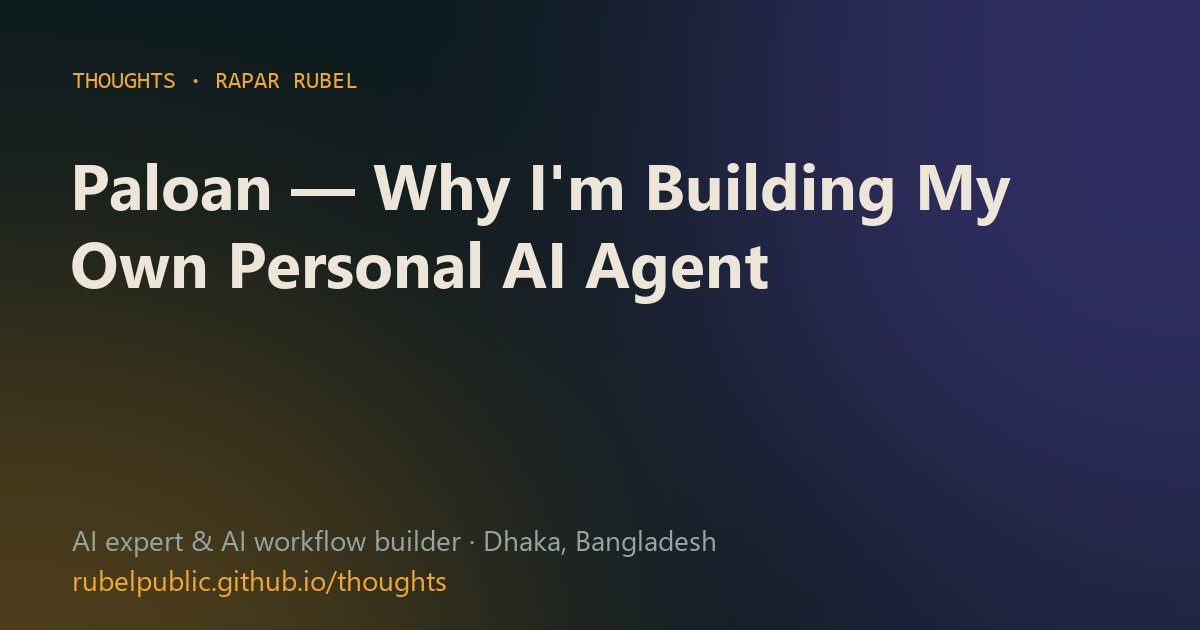
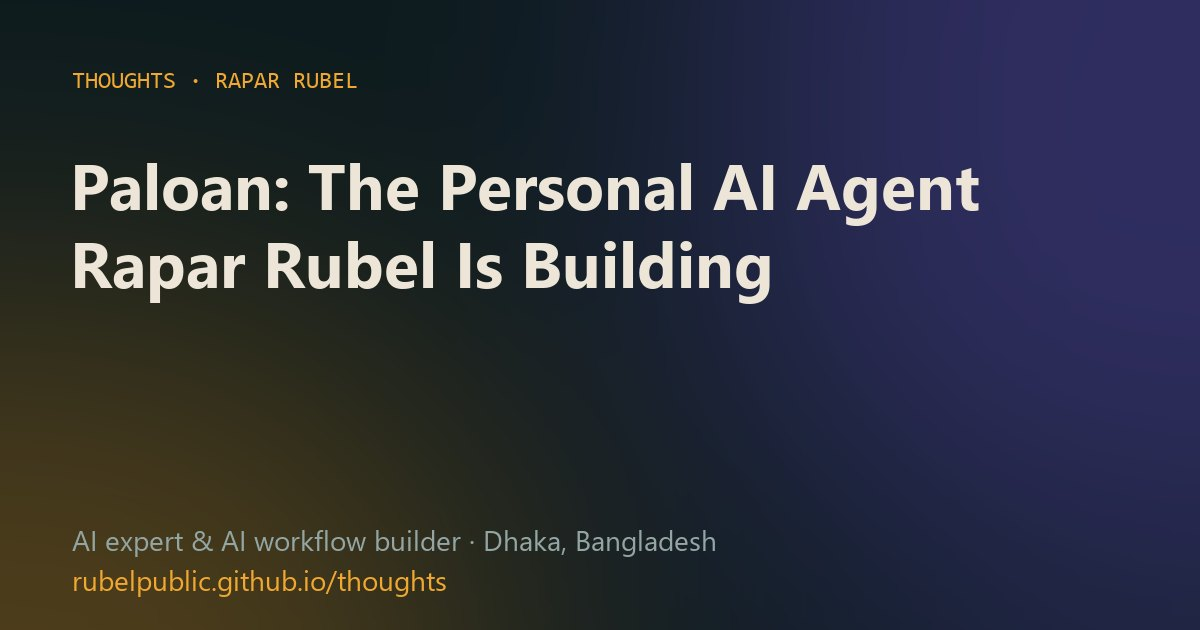
SEO: target "Rubel AI" and "paloan" queries
Homepage title/description/schema lead with Rubel AI and add a
"What is Rubel AI?" FAQ; the Paloan post title and description now
start with Paloan, and the homepage Paloan section links to it.

Changed region(s): [[0.2158, 0.2413, 0.8633, 0.3619], [0.0617, 0.3619, 0.6475, 0.4825]]

diff --git a/index.html b/index.html
@@ -3,10 +3,10 @@
 <head>
 <meta charset="utf-8">
 <meta name="viewport" content="width=device-width, initial-scale=1, viewport-fit=cover">
-<title>Rapar Rubel — AI Expert & AI Workflow Builder, Bangladesh</title>
-<meta name="description" content="Rapar Rubel is an independent AI expert and AI workflow builder in Bangladesh who helps businesses grow with AI agents, automation and AI-powered content.">
+<title>Rubel AI — Rapar Rubel, AI Expert & AI Workflow Builder in Bangladesh</title>
+<meta name="description" content="Rubel AI: Rapar Rubel (Rubel Miah) is an AI expert and AI workflow builder in Bangladesh who helps businesses grow with AI agents, automation and AI content.">
 <meta name="author" content="Rubel Miah (Rapar Rubel)">
-<meta name="keywords" content="Rapar Rubel, Rubel Miah, Rubel Public, AI expert Bangladesh, AI workflow builder Bangladesh, AI builder Bangladesh, AI workflow automation, AI specialist Dhaka, AI agent developer Bangladesh, Bangla AI, AI automation Bangladesh, AI consultant Dhaka, Paloan, content strategist Bangladesh">
+<meta name="keywords" content="Rubel AI, Rapar Rubel, Rubel Miah, Rubel Public, Paloan, Paloan AI agent, AI expert Bangladesh, AI workflow builder Bangladesh, AI builder Bangladesh, AI workflow automation, AI specialist Dhaka, AI agent developer Bangladesh, Bangla AI, AI automation Bangladesh, AI consultant Dhaka, Paloan, content strategist Bangladesh">
 <meta name="robots" content="index, follow, max-image-preview:large">
 <link rel="canonical" href="https://rubelpublic.github.io/">
 <meta name="geo.region" content="BD-13">
@@ -18,7 +18,7 @@
 <meta name="theme-color" content="#F6F1E7" media="(prefers-color-scheme: light)">
 <meta property="og:type" content="profile">
 <meta property="og:site_name" content="Rapar Rubel">
-<meta property="og:title" content="Rapar Rubel — AI Expert & AI Workflow Builder in Bangladesh">
+<meta property="og:title" content="Rubel AI — Rapar Rubel, AI Expert & AI Workflow Builder in Bangladesh">
 <meta property="og:description" content="I turn AI into real business growth: AI agents, automation and AI-powered content in Bangla and English. Independent AI expert &amp; AI workflow builder from Dhaka, Bangladesh.">
 <meta property="og:url" content="https://rubelpublic.github.io/">
 <meta property="og:image" content="https://rubelpublic.github.io/assets/og-image.jpg">
@@ -51,7 +51,8 @@
    "name": "Rubel Miah",
    "alternateName": [
     "Rapar Rubel",
-    "Rubel Public"
+    "Rubel Public",
+    "Rubel AI"
    ],
    "url": "https://rubelpublic.github.io/",
    "image": {
@@ -147,6 +148,7 @@
     "@id": "https://rubelpublic.github.io/#person"
    },
    "alternateName": [
+    "Rubel AI",
     "Rapar Rubel — AI Expert & AI Workflow Builder",
     "Rubel Miah portfolio"
    ]
@@ -155,7 +157,7 @@
    "@type": "ProfilePage",
    "@id": "https://rubelpublic.github.io/#profile",
    "url": "https://rubelpublic.github.io/",
-   "name": "Rapar Rubel — AI Expert & AI Workflow Builder in Bangladesh",
+   "name": "Rubel AI — Rapar Rubel, AI Expert & AI Workflow Builder in Bangladesh",
    "mainEntity": {
     "@id": "https://rubelpublic.github.io/#person"
    },
@@ -189,6 +191,14 @@
      "acceptedAnswer": {
       "@type": "Answer",
       "text": "Rapar Rubel is an independent AI expert and AI workflow builder in Bangladesh. His real name is Rubel Miah and he is based in Dhaka. He builds AI agents, automation and AI-powered products that work in Bangla, Banglish and English, and combines them with business strategy, content and brand psychology, testing the work inside his own ventures."
+     }
+    },
+    {
+     "@type": "Question",
+     "name": "What is Rubel AI?",
+     "acceptedAnswer": {
+      "@type": "Answer",
+      "text": "Rubel AI is how many people search for Rapar Rubel (Rubel Miah), an independent AI expert and AI workflow builder in Dhaka, Bangladesh. Under that name he builds AI agents, AI automation and AI-powered content in Bangla, Banglish and English for businesses, including MimAI and his personal AI agent Paloan."
      }
     },
     {
@@ -284,6 +294,8 @@
   {
    "@type": "SoftwareApplication",
    "name": "Paloan",
+   "alternateName": "Paloan AI agent",
+   "url": "https://rubelpublic.github.io/thoughts/why-i-built-paloan-personal-ai-agent/",
    "applicationCategory": "AI assistant",
    "description": "Personal AI agent of Rapar Rubel (Rubel Miah) for research, content drafting, planning and workflows.",
    "creator": {
@@ -1175,7 +1187,7 @@ img,svg,video{max-width:100%}
         <h2>Paloan</h2>
         <p>Paloan is my personal AI agent—the assistant I’m building to work alongside me. It helps me research audiences, draft content in Bangla, Banglish and English, plan launches and run repeatable workflows, so more of my time goes into thinking and less into busywork.</p>
         <ul class="chips"><li>Audience research</li><li>Content drafts</li><li>Planning</li><li>Workflows</li></ul>
-        <p class="pa-note">A guide version of Paloan lives on this site. Ask it anything about my work.</p>
+        <p class="pa-note">A guide version of Paloan lives on this site. Ask it anything about my work, or read <a href="/thoughts/why-i-built-paloan-personal-ai-agent/">what Paloan is and why I’m building it</a>.</p>
         <button type="button" class="btn btn-primary" data-open-paloan>Ask Paloan →</button>
       </div>
     </div>
@@ -1427,7 +1439,7 @@ img,svg,video{max-width:100%}
     <div class="project-grid">
       <article class="reveal project-card"><span class="num mono">10 October 2026 · 3 min read</span><h3><a href="/thoughts/ai-that-speaks-banglish/">Why I Build AI That Speaks Bangla, Banglish and English</a></h3><p>Most AI tools fail Bangladeshi customers because they expect perfect English. Rapar Rubel explains why he builds AI that understands Banglish, and how.</p><a class="go" href="/thoughts/ai-that-speaks-banglish/">Read →</a></article>
       <article class="reveal project-card"><span class="num mono">10 October 2026 · 2 min read</span><h3><a href="/thoughts/what-an-ai-workflow-builder-does/">What Does an AI Workflow Builder Actually Do for a Small Business?</a></h3><p>What an AI workflow builder does for a small business: real examples, how to pick your first AI workflow, and what not to automate. By Rapar Rubel, Bangladesh.</p><a class="go" href="/thoughts/what-an-ai-workflow-builder-does/">Read →</a></article>
-      <article class="reveal project-card"><span class="num mono">10 October 2026 · 2 min read</span><h3><a href="/thoughts/why-i-built-paloan-personal-ai-agent/">Paloan — Why I&#x27;m Building My Own Personal AI Agent</a></h3><p>Rapar Rubel on Paloan, the personal AI agent he is building to research audiences, draft Bangla and English content, plan launches and run workflows.</p><a class="go" href="/thoughts/why-i-built-paloan-personal-ai-agent/">Read →</a></article>
+      <article class="reveal project-card"><span class="num mono">10 October 2026 · 2 min read</span><h3><a href="/thoughts/why-i-built-paloan-personal-ai-agent/">Paloan: The Personal AI Agent Rapar Rubel Is Building</a></h3><p>Paloan is Rapar Rubel’s personal AI agent. See what Paloan does — audience research, Bangla and English drafts, launch plans, workflows — and try it live.</p><a class="go" href="/thoughts/why-i-built-paloan-personal-ai-agent/">Read →</a></article>
       <article class="reveal project-card"><span class="num mono">10 October 2026 · 2 min read</span><h3><a href="/thoughts/building-mimai-with-claude-code/">How I Built MimAI, an AI File Assistant, With Claude Code</a></h3><p>How Rapar Rubel built MimAI, an AI file assistant for Google Drive that understands Bangla, Banglish and English, with Claude Code, and what he learned.</p><a class="go" href="/thoughts/building-mimai-with-claude-code/">Read →</a></article>
       <article class="reveal project-card"><span class="num mono">10 October 2026 · 3 min read</span><h3><a href="/thoughts/content-starts-in-the-audiences-head/">Content Starts in the Audience&#x27;s Head — My 5-Step Process</a></h3><p>Rapar Rubel&#x27;s five-step content process — Listen, Decode, Frame, Create, Test — with real examples from fashion, property, travel and cap brands in Bangladesh.</p><a class="go" href="/thoughts/content-starts-in-the-audiences-head/">Read →</a></article>
     </div>
@@ -1441,6 +1453,7 @@ img,svg,video{max-width:100%}
     <p class="s-lede">Short, direct answers about who I am, what I do and how to work with me.</p>
     <div class="qa-list">
       <details class="qa reveal"><summary><h3>Who is Rapar Rubel?</h3><span class="pm" aria-hidden="true"></span></summary><div class="ans"><p>Rapar Rubel is an independent AI expert and AI workflow builder in Bangladesh. His real name is Rubel Miah and he is based in Dhaka. He builds AI agents, automation and AI-powered products that work in Bangla, Banglish and English, and combines them with business strategy, content and brand psychology, testing the work inside his own ventures.</p></div></details>
+      <details class="qa reveal"><summary><h3>What is Rubel AI?</h3><span class="pm" aria-hidden="true"></span></summary><div class="ans"><p>Rubel AI is how many people search for Rapar Rubel (Rubel Miah), an independent AI expert and AI workflow builder in Dhaka, Bangladesh. Under that name he builds AI agents, AI automation and AI-powered content in Bangla, Banglish and English for businesses, including MimAI and his personal AI agent Paloan.</p></div></details>
       <details class="qa reveal"><summary><h3>Who is an independent AI expert and AI workflow builder in Bangladesh?</h3><span class="pm" aria-hidden="true"></span></summary><div class="ans"><p>Rapar Rubel (Rubel Miah) is an independent AI expert and AI workflow builder based in Dhaka, Bangladesh. He builds practical AI tools such as MimAI and his personal AI agent Paloan, designs AI workflows and automation for businesses, and teaches the AI Power User course in Bangla.</p></div></details>
       <details class="qa reveal"><summary><h3>Are Rapar Rubel, Rubel Miah and Rubel Public the same person?</h3><span class="pm" aria-hidden="true"></span></summary><div class="ans"><p>Yes. Rubel Miah is his real name, Rapar Rubel is his online and creative name, and Rubel Public is another public identity he uses, including for this portfolio at rubelpublic.github.io and on GitHub.</p></div></details>
       <details class="qa reveal"><summary><h3>What services does Rapar Rubel offer?</h3><span class="pm" aria-hidden="true"></span></summary><div class="ans"><p>Business strategy (business models, pricing, offers and operating plans), practical AI agents and workflow automation, websites and web apps, digital marketing and growth, brand and creative systems, AI video direction, and AI training for teams in Bangla and English.</p></div></details>

diff --git a/thoughts/why-i-built-paloan-personal-ai-agent/index.html b/thoughts/why-i-built-paloan-personal-ai-agent/index.html
@@ -3,8 +3,8 @@
 <head>
 <meta charset="utf-8">
 <meta name="viewport" content="width=device-width, initial-scale=1, viewport-fit=cover">
-<title>Paloan — Why I&#x27;m Building My Own Personal AI Agent | Rapar Rubel</title>
-<meta name="description" content="Rapar Rubel on Paloan, the personal AI agent he is building to research audiences, draft Bangla and English content, plan launches and run workflows.">
+<title>Paloan: The Personal AI Agent Rapar Rubel Is Building | Rapar Rubel</title>
+<meta name="description" content="Paloan is Rapar Rubel’s personal AI agent. See what Paloan does — audience research, Bangla and English drafts, launch plans, workflows — and try it live.">
 <meta name="author" content="Rapar Rubel (Rubel Miah)">
 <meta name="robots" content="index, follow, max-image-preview:large">
 <link rel="canonical" href="https://rubelpublic.github.io/thoughts/why-i-built-paloan-personal-ai-agent/">
@@ -13,8 +13,8 @@
 <meta name="theme-color" content="#F6F1E7" media="(prefers-color-scheme: light)">
 <meta property="og:type" content="article">
 <meta property="og:site_name" content="Rapar Rubel">
-<meta property="og:title" content="Paloan — Why I&#x27;m Building My Own Personal AI Agent | Rapar Rubel">
-<meta property="og:description" content="Rapar Rubel on Paloan, the personal AI agent he is building to research audiences, draft Bangla and English content, plan launches and run workflows.">
+<meta property="og:title" content="Paloan: The Personal AI Agent Rapar Rubel Is Building | Rapar Rubel">
+<meta property="og:description" content="Paloan is Rapar Rubel’s personal AI agent. See what Paloan does — audience research, Bangla and English drafts, launch plans, workflows — and try it live.">
 <meta property="og:url" content="https://rubelpublic.github.io/thoughts/why-i-built-paloan-personal-ai-agent/">
 <meta property="og:image" content="https://rubelpublic.github.io/thoughts/why-i-built-paloan-personal-ai-agent/og.jpg">
 <meta property="og:image:width" content="1200">
@@ -31,8 +31,8 @@
 <meta name="twitter:card" content="summary_large_image">
 <meta name="twitter:site" content="@raparrubel1">
 <meta name="twitter:creator" content="@raparrubel1">
-<meta name="twitter:title" content="Paloan — Why I&#x27;m Building My Own Personal AI Agent | Rapar Rubel">
-<meta name="twitter:description" content="Rapar Rubel on Paloan, the personal AI agent he is building to research audiences, draft Bangla and English content, plan launches and run workflows.">
+<meta name="twitter:title" content="Paloan: The Personal AI Agent Rapar Rubel Is Building | Rapar Rubel">
+<meta name="twitter:description" content="Paloan is Rapar Rubel’s personal AI agent. See what Paloan does — audience research, Bangla and English drafts, launch plans, workflows — and try it live.">
 <meta name="twitter:image" content="https://rubelpublic.github.io/thoughts/why-i-built-paloan-personal-ai-agent/og.jpg">
 <link rel="icon" type="image/png" sizes="48x48" href="/assets/favicon-48.png">
 <link rel="apple-touch-icon" href="/assets/apple-touch-icon.png">
@@ -68,8 +68,8 @@
   {
    "@type": "BlogPosting",
    "@id": "https://rubelpublic.github.io/thoughts/why-i-built-paloan-personal-ai-agent/#post",
-   "headline": "Paloan — Why I'm Building My Own Personal AI Agent",
-   "description": "Rapar Rubel on Paloan, the personal AI agent he is building to research audiences, draft Bangla and English content, plan launches and run workflows.",
+   "headline": "Paloan: The Personal AI Agent Rapar Rubel Is Building",
+   "description": "Paloan is Rapar Rubel’s personal AI agent. See what Paloan does — audience research, Bangla and English drafts, launch plans, workflows — and try it live.",
    "image": "https://rubelpublic.github.io/thoughts/why-i-built-paloan-personal-ai-agent/og.jpg",
    "datePublished": "2026-10-10",
    "dateModified": "2026-10-10",
@@ -109,7 +109,7 @@
     {
      "@type": "ListItem",
      "position": 3,
-     "name": "Paloan — Why I'm Building My Own Personal AI Agent",
+     "name": "Paloan: The Personal AI Agent Rapar Rubel Is Building",
      "item": "https://rubelpublic.github.io/thoughts/why-i-built-paloan-personal-ai-agent/"
     }
    ]
@@ -159,9 +159,9 @@
   </nav>
 </header>
 <main id="main">
-<p class="crumbs"><a href="/">Rapar Rubel</a> › <a href="/thoughts/">Thoughts</a> › <span aria-current="page">Paloan — Why I&#x27;m Building My Own Personal AI Agent</span></p>
+<p class="crumbs"><a href="/">Rapar Rubel</a> › <a href="/thoughts/">Thoughts</a> › <span aria-current="page">Paloan: The Personal AI Agent Rapar Rubel Is Building</span></p>
 <article class="post">
-  <h1>Paloan — Why I&#x27;m Building My Own Personal AI Agent</h1>
+  <h1>Paloan: The Personal AI Agent Rapar Rubel Is Building</h1>
   <p class="meta">By <b><a href="/" rel="author">Rapar Rubel</a></b> (Rubel Miah) · <time datetime="2026-10-10">10 October 2026</time> · 2 min read</p>
   <ul class="tags"><li>Paloan</li><li>personal AI agent</li><li>AI agents</li><li>productivity</li><li>AI workflow</li><li>Bangladesh</li></ul>
   <section class="tldr" aria-labelledby="tldr-h"><h2 id="tldr-h">Short answer</h2><ul><li>Paloan is the personal AI agent I am building to work alongside me across my ventures.</li><li>It helps with audience research, content drafts in Bangla, Banglish and English, launch planning and repeatable workflows.</li><li>A personal agent is valuable because it carries context — my brands, my audiences, my way of working.</li><li>My rule — the agent prepares, the human decides.</li></ul></section>

diff --git a/thoughts/index.html b/thoughts/index.html
@@ -94,11 +94,11 @@
     },
     {
      "@type": "BlogPosting",
-     "headline": "Paloan — Why I'm Building My Own Personal AI Agent",
+     "headline": "Paloan: The Personal AI Agent Rapar Rubel Is Building",
      "url": "https://rubelpublic.github.io/thoughts/why-i-built-paloan-personal-ai-agent/",
      "datePublished": "2026-10-10",
      "dateModified": "2026-10-10",
-     "description": "Rapar Rubel on Paloan, the personal AI agent he is building to research audiences, draft Bangla and English content, plan launches and run workflows.",
+     "description": "Paloan is Rapar Rubel’s personal AI agent. See what Paloan does — audience research, Bangla and English drafts, launch plans, workflows — and try it live.",
      "author": {
       "@id": "https://rubelpublic.github.io/#person"
      }
@@ -162,7 +162,7 @@
 <p class="crumbs"><a href="/">Rapar Rubel</a> › <span aria-current="page">Thoughts</span></p>
 <h1>Thoughts</h1>
 <p class="lede">My thinking process, written down. I'm <strong>Rapar Rubel</strong> (Rubel Miah), an independent <strong>AI expert and AI workflow builder in Bangladesh</strong>. Here I write about building AI agents, AI that speaks Bangla and Banglish, audience-first content, and what I learn shipping real products. <a class="rss" href="/thoughts/feed.xml">RSS feed</a></p>
-<div class="cards"><a class="card" href="/thoughts/ai-that-speaks-banglish/"><span class="mono">10 October 2026 · 3 min read</span><h2>Why I Build AI That Speaks Bangla, Banglish and English</h2><p>Most AI tools fail Bangladeshi customers because they expect perfect English. Rapar Rubel explains why he builds AI that understands Banglish, and how.</p></a><a class="card" href="/thoughts/what-an-ai-workflow-builder-does/"><span class="mono">10 October 2026 · 2 min read</span><h2>What Does an AI Workflow Builder Actually Do for a Small Business?</h2><p>What an AI workflow builder does for a small business: real examples, how to pick your first AI workflow, and what not to automate. By Rapar Rubel, Bangladesh.</p></a><a class="card" href="/thoughts/why-i-built-paloan-personal-ai-agent/"><span class="mono">10 October 2026 · 2 min read</span><h2>Paloan — Why I&#x27;m Building My Own Personal AI Agent</h2><p>Rapar Rubel on Paloan, the personal AI agent he is building to research audiences, draft Bangla and English content, plan launches and run workflows.</p></a><a class="card" href="/thoughts/building-mimai-with-claude-code/"><span class="mono">10 October 2026 · 2 min read</span><h2>How I Built MimAI, an AI File Assistant, With Claude Code</h2><p>How Rapar Rubel built MimAI, an AI file assistant for Google Drive that understands Bangla, Banglish and English, with Claude Code, and what he learned.</p></a><a class="card" href="/thoughts/content-starts-in-the-audiences-head/"><span class="mono">10 October 2026 · 3 min read</span><h2>Content Starts in the Audience&#x27;s Head — My 5-Step Process</h2><p>Rapar Rubel&#x27;s five-step content process — Listen, Decode, Frame, Create, Test — with real examples from fashion, property, travel and cap brands in Bangladesh.</p></a></div>
+<div class="cards"><a class="card" href="/thoughts/ai-that-speaks-banglish/"><span class="mono">10 October 2026 · 3 min read</span><h2>Why I Build AI That Speaks Bangla, Banglish and English</h2><p>Most AI tools fail Bangladeshi customers because they expect perfect English. Rapar Rubel explains why he builds AI that understands Banglish, and how.</p></a><a class="card" href="/thoughts/what-an-ai-workflow-builder-does/"><span class="mono">10 October 2026 · 2 min read</span><h2>What Does an AI Workflow Builder Actually Do for a Small Business?</h2><p>What an AI workflow builder does for a small business: real examples, how to pick your first AI workflow, and what not to automate. By Rapar Rubel, Bangladesh.</p></a><a class="card" href="/thoughts/why-i-built-paloan-personal-ai-agent/"><span class="mono">10 October 2026 · 2 min read</span><h2>Paloan: The Personal AI Agent Rapar Rubel Is Building</h2><p>Paloan is Rapar Rubel’s personal AI agent. See what Paloan does — audience research, Bangla and English drafts, launch plans, workflows — and try it live.</p></a><a class="card" href="/thoughts/building-mimai-with-claude-code/"><span class="mono">10 October 2026 · 2 min read</span><h2>How I Built MimAI, an AI File Assistant, With Claude Code</h2><p>How Rapar Rubel built MimAI, an AI file assistant for Google Drive that understands Bangla, Banglish and English, with Claude Code, and what he learned.</p></a><a class="card" href="/thoughts/content-starts-in-the-audiences-head/"><span class="mono">10 October 2026 · 3 min read</span><h2>Content Starts in the Audience&#x27;s Head — My 5-Step Process</h2><p>Rapar Rubel&#x27;s five-step content process — Listen, Decode, Frame, Create, Test — with real examples from fashion, property, travel and cap brands in Bangladesh.</p></a></div>
 </main>
 <footer>
   <p>© 2026 Rubel Miah · Rapar Rubel · Rubel Public — AI expert &amp; AI workflow builder, Dhaka, Bangladesh</p>

diff --git a/thoughts/ai-that-speaks-banglish/index.html b/thoughts/ai-that-speaks-banglish/index.html
@@ -206,7 +206,7 @@
   <aside class="author" aria-labelledby="author-h"><img src="/assets/portrait-600.webp" alt="Rapar Rubel (Rubel Miah)" width="72" height="72" loading="lazy">
     <div><h2 id="author-h">Rapar Rubel <span class="mono" style="color:var(--muted)">· Rubel Miah</span></h2><p>Independent AI expert and AI workflow builder in Dhaka, Bangladesh. I build AI agents, automation and AI-powered content that work in Bangla, Banglish and English — and test them inside my own ventures.</p><div class="links"><a href="https://rubelpublic.github.io/" rel="me noopener">Portfolio</a> <a href="https://www.facebook.com/rapar.rubel" rel="me noopener" target=_blank>Facebook</a> <a href="https://www.instagram.com/rapar.rubel/" rel="me noopener" target=_blank>Instagram</a> <a href="https://x.com/raparrubel1" rel="me noopener" target=_blank>X</a> <a href="https://www.linkedin.com/in/rubel-miah-a16706134" rel="me noopener" target=_blank>LinkedIn</a> <a href="https://www.youtube.com/@raparrubel1156" rel="me noopener" target=_blank>YouTube</a> <a href="https://www.behance.net/raparrubel" rel="me noopener" target=_blank>Behance</a> <a href="https://github.com/rubelpublic" rel="me noopener" target=_blank>GitHub</a></div></div></aside>
 </article>
-<section class="related" aria-labelledby="rel-h"><h2 id="rel-h">Keep reading</h2><div class="cards"><a class="card" href="/thoughts/what-an-ai-workflow-builder-does/"><span class="mono">10 October 2026 · 2 min read</span><h3>What Does an AI Workflow Builder Actually Do for a Small Business?</h3><p>What an AI workflow builder does for a small business: real examples, how to pick your first AI workflow, and what not to automate. By Rapar Rubel, Bangladesh.</p></a><a class="card" href="/thoughts/why-i-built-paloan-personal-ai-agent/"><span class="mono">10 October 2026 · 2 min read</span><h3>Paloan — Why I&#x27;m Building My Own Personal AI Agent</h3><p>Rapar Rubel on Paloan, the personal AI agent he is building to research audiences, draft Bangla and English content, plan launches and run workflows.</p></a><a class="card" href="/thoughts/building-mimai-with-claude-code/"><span class="mono">10 October 2026 · 2 min read</span><h3>How I Built MimAI, an AI File Assistant, With Claude Code</h3><p>How Rapar Rubel built MimAI, an AI file assistant for Google Drive that understands Bangla, Banglish and English, with Claude Code, and what he learned.</p></a></div></section>
+<section class="related" aria-labelledby="rel-h"><h2 id="rel-h">Keep reading</h2><div class="cards"><a class="card" href="/thoughts/what-an-ai-workflow-builder-does/"><span class="mono">10 October 2026 · 2 min read</span><h3>What Does an AI Workflow Builder Actually Do for a Small Business?</h3><p>What an AI workflow builder does for a small business: real examples, how to pick your first AI workflow, and what not to automate. By Rapar Rubel, Bangladesh.</p></a><a class="card" href="/thoughts/why-i-built-paloan-personal-ai-agent/"><span class="mono">10 October 2026 · 2 min read</span><h3>Paloan: The Personal AI Agent Rapar Rubel Is Building</h3><p>Paloan is Rapar Rubel’s personal AI agent. See what Paloan does — audience research, Bangla and English drafts, launch plans, workflows — and try it live.</p></a><a class="card" href="/thoughts/building-mimai-with-claude-code/"><span class="mono">10 October 2026 · 2 min read</span><h3>How I Built MimAI, an AI File Assistant, With Claude Code</h3><p>How Rapar Rubel built MimAI, an AI file assistant for Google Drive that understands Bangla, Banglish and English, with Claude Code, and what he learned.</p></a></div></section>
 <section class="cta"><h2>Have a question about AI for your business?</h2><p>Ask my AI agent Paloan, or send me a short brief.</p>
   <a class="btn btn-primary" href="/#paloan">Ask Paloan →</a><a class="btn btn-ghost" href="/#brief">Send a brief</a></section>
 </main>

diff --git a/thoughts/building-mimai-with-claude-code/index.html b/thoughts/building-mimai-with-claude-code/index.html
@@ -194,7 +194,7 @@
   <aside class="author" aria-labelledby="author-h"><img src="/assets/portrait-600.webp" alt="Rapar Rubel (Rubel Miah)" width="72" height="72" loading="lazy">
     <div><h2 id="author-h">Rapar Rubel <span class="mono" style="color:var(--muted)">· Rubel Miah</span></h2><p>Independent AI expert and AI workflow builder in Dhaka, Bangladesh. I build AI agents, automation and AI-powered content that work in Bangla, Banglish and English — and test them inside my own ventures.</p><div class="links"><a href="https://rubelpublic.github.io/" rel="me noopener">Portfolio</a> <a href="https://www.facebook.com/rapar.rubel" rel="me noopener" target=_blank>Facebook</a> <a href="https://www.instagram.com/rapar.rubel/" rel="me noopener" target=_blank>Instagram</a> <a href="https://x.com/raparrubel1" rel="me noopener" target=_blank>X</a> <a href="https://www.linkedin.com/in/rubel-miah-a16706134" rel="me noopener" target=_blank>LinkedIn</a> <a href="https://www.youtube.com/@raparrubel1156" rel="me noopener" target=_blank>YouTube</a> <a href="https://www.behance.net/raparrubel" rel="me noopener" target=_blank>Behance</a> <a href="https://github.com/rubelpublic" rel="me noopener" target=_blank>GitHub</a></div></div></aside>
 </article>
-<section class="related" aria-labelledby="rel-h"><h2 id="rel-h">Keep reading</h2><div class="cards"><a class="card" href="/thoughts/ai-that-speaks-banglish/"><span class="mono">10 October 2026 · 3 min read</span><h3>Why I Build AI That Speaks Bangla, Banglish and English</h3><p>Most AI tools fail Bangladeshi customers because they expect perfect English. Rapar Rubel explains why he builds AI that understands Banglish, and how.</p></a><a class="card" href="/thoughts/what-an-ai-workflow-builder-does/"><span class="mono">10 October 2026 · 2 min read</span><h3>What Does an AI Workflow Builder Actually Do for a Small Business?</h3><p>What an AI workflow builder does for a small business: real examples, how to pick your first AI workflow, and what not to automate. By Rapar Rubel, Bangladesh.</p></a><a class="card" href="/thoughts/why-i-built-paloan-personal-ai-agent/"><span class="mono">10 October 2026 · 2 min read</span><h3>Paloan — Why I&#x27;m Building My Own Personal AI Agent</h3><p>Rapar Rubel on Paloan, the personal AI agent he is building to research audiences, draft Bangla and English content, plan launches and run workflows.</p></a></div></section>
+<section class="related" aria-labelledby="rel-h"><h2 id="rel-h">Keep reading</h2><div class="cards"><a class="card" href="/thoughts/ai-that-speaks-banglish/"><span class="mono">10 October 2026 · 3 min read</span><h3>Why I Build AI That Speaks Bangla, Banglish and English</h3><p>Most AI tools fail Bangladeshi customers because they expect perfect English. Rapar Rubel explains why he builds AI that understands Banglish, and how.</p></a><a class="card" href="/thoughts/what-an-ai-workflow-builder-does/"><span class="mono">10 October 2026 · 2 min read</span><h3>What Does an AI Workflow Builder Actually Do for a Small Business?</h3><p>What an AI workflow builder does for a small business: real examples, how to pick your first AI workflow, and what not to automate. By Rapar Rubel, Bangladesh.</p></a><a class="card" href="/thoughts/why-i-built-paloan-personal-ai-agent/"><span class="mono">10 October 2026 · 2 min read</span><h3>Paloan: The Personal AI Agent Rapar Rubel Is Building</h3><p>Paloan is Rapar Rubel’s personal AI agent. See what Paloan does — audience research, Bangla and English drafts, launch plans, workflows — and try it live.</p></a></div></section>
 <section class="cta"><h2>Have a question about AI for your business?</h2><p>Ask my AI agent Paloan, or send me a short brief.</p>
   <a class="btn btn-primary" href="/#paloan">Ask Paloan →</a><a class="btn btn-ghost" href="/#brief">Send a brief</a></section>
 </main>

diff --git a/thoughts/content-starts-in-the-audiences-head/index.html b/thoughts/content-starts-in-the-audiences-head/index.html
@@ -196,7 +196,7 @@
   <aside class="author" aria-labelledby="author-h"><img src="/assets/portrait-600.webp" alt="Rapar Rubel (Rubel Miah)" width="72" height="72" loading="lazy">
     <div><h2 id="author-h">Rapar Rubel <span class="mono" style="color:var(--muted)">· Rubel Miah</span></h2><p>Independent AI expert and AI workflow builder in Dhaka, Bangladesh. I build AI agents, automation and AI-powered content that work in Bangla, Banglish and English — and test them inside my own ventures.</p><div class="links"><a href="https://rubelpublic.github.io/" rel="me noopener">Portfolio</a> <a href="https://www.facebook.com/rapar.rubel" rel="me noopener" target=_blank>Facebook</a> <a href="https://www.instagram.com/rapar.rubel/" rel="me noopener" target=_blank>Instagram</a> <a href="https://x.com/raparrubel1" rel="me noopener" target=_blank>X</a> <a href="https://www.linkedin.com/in/rubel-miah-a16706134" rel="me noopener" target=_blank>LinkedIn</a> <a href="https://www.youtube.com/@raparrubel1156" rel="me noopener" target=_blank>YouTube</a> <a href="https://www.behance.net/raparrubel" rel="me noopener" target=_blank>Behance</a> <a href="https://github.com/rubelpublic" rel="me noopener" target=_blank>GitHub</a></div></div></aside>
 </article>
-<section class="related" aria-labelledby="rel-h"><h2 id="rel-h">Keep reading</h2><div class="cards"><a class="card" href="/thoughts/ai-that-speaks-banglish/"><span class="mono">10 October 2026 · 3 min read</span><h3>Why I Build AI That Speaks Bangla, Banglish and English</h3><p>Most AI tools fail Bangladeshi customers because they expect perfect English. Rapar Rubel explains why he builds AI that understands Banglish, and how.</p></a><a class="card" href="/thoughts/what-an-ai-workflow-builder-does/"><span class="mono">10 October 2026 · 2 min read</span><h3>What Does an AI Workflow Builder Actually Do for a Small Business?</h3><p>What an AI workflow builder does for a small business: real examples, how to pick your first AI workflow, and what not to automate. By Rapar Rubel, Bangladesh.</p></a><a class="card" href="/thoughts/why-i-built-paloan-personal-ai-agent/"><span class="mono">10 October 2026 · 2 min read</span><h3>Paloan — Why I&#x27;m Building My Own Personal AI Agent</h3><p>Rapar Rubel on Paloan, the personal AI agent he is building to research audiences, draft Bangla and English content, plan launches and run workflows.</p></a></div></section>
+<section class="related" aria-labelledby="rel-h"><h2 id="rel-h">Keep reading</h2><div class="cards"><a class="card" href="/thoughts/ai-that-speaks-banglish/"><span class="mono">10 October 2026 · 3 min read</span><h3>Why I Build AI That Speaks Bangla, Banglish and English</h3><p>Most AI tools fail Bangladeshi customers because they expect perfect English. Rapar Rubel explains why he builds AI that understands Banglish, and how.</p></a><a class="card" href="/thoughts/what-an-ai-workflow-builder-does/"><span class="mono">10 October 2026 · 2 min read</span><h3>What Does an AI Workflow Builder Actually Do for a Small Business?</h3><p>What an AI workflow builder does for a small business: real examples, how to pick your first AI workflow, and what not to automate. By Rapar Rubel, Bangladesh.</p></a><a class="card" href="/thoughts/why-i-built-paloan-personal-ai-agent/"><span class="mono">10 October 2026 · 2 min read</span><h3>Paloan: The Personal AI Agent Rapar Rubel Is Building</h3><p>Paloan is Rapar Rubel’s personal AI agent. See what Paloan does — audience research, Bangla and English drafts, launch plans, workflows — and try it live.</p></a></div></section>
 <section class="cta"><h2>Have a question about AI for your business?</h2><p>Ask my AI agent Paloan, or send me a short brief.</p>
   <a class="btn btn-primary" href="/#paloan">Ask Paloan →</a><a class="btn btn-ghost" href="/#brief">Send a brief</a></section>
 </main>

diff --git a/thoughts/what-an-ai-workflow-builder-does/index.html b/thoughts/what-an-ai-workflow-builder-does/index.html
@@ -209,7 +209,7 @@
   <aside class="author" aria-labelledby="author-h"><img src="/assets/portrait-600.webp" alt="Rapar Rubel (Rubel Miah)" width="72" height="72" loading="lazy">
     <div><h2 id="author-h">Rapar Rubel <span class="mono" style="color:var(--muted)">· Rubel Miah</span></h2><p>Independent AI expert and AI workflow builder in Dhaka, Bangladesh. I build AI agents, automation and AI-powered content that work in Bangla, Banglish and English — and test them inside my own ventures.</p><div class="links"><a href="https://rubelpublic.github.io/" rel="me noopener">Portfolio</a> <a href="https://www.facebook.com/rapar.rubel" rel="me noopener" target=_blank>Facebook</a> <a href="https://www.instagram.com/rapar.rubel/" rel="me noopener" target=_blank>Instagram</a> <a href="https://x.com/raparrubel1" rel="me noopener" target=_blank>X</a> <a href="https://www.linkedin.com/in/rubel-miah-a16706134" rel="me noopener" target=_blank>LinkedIn</a> <a href="https://www.youtube.com/@raparrubel1156" rel="me noopener" target=_blank>YouTube</a> <a href="https://www.behance.net/raparrubel" rel="me noopener" target=_blank>Behance</a> <a href="https://github.com/rubelpublic" rel="me noopener" target=_blank>GitHub</a></div></div></aside>
 </article>
-<section class="related" aria-labelledby="rel-h"><h2 id="rel-h">Keep reading</h2><div class="cards"><a class="card" href="/thoughts/ai-that-speaks-banglish/"><span class="mono">10 October 2026 · 3 min read</span><h3>Why I Build AI That Speaks Bangla, Banglish and English</h3><p>Most AI tools fail Bangladeshi customers because they expect perfect English. Rapar Rubel explains why he builds AI that understands Banglish, and how.</p></a><a class="card" href="/thoughts/why-i-built-paloan-personal-ai-agent/"><span class="mono">10 October 2026 · 2 min read</span><h3>Paloan — Why I&#x27;m Building My Own Personal AI Agent</h3><p>Rapar Rubel on Paloan, the personal AI agent he is building to research audiences, draft Bangla and English content, plan launches and run workflows.</p></a><a class="card" href="/thoughts/building-mimai-with-claude-code/"><span class="mono">10 October 2026 · 2 min read</span><h3>How I Built MimAI, an AI File Assistant, With Claude Code</h3><p>How Rapar Rubel built MimAI, an AI file assistant for Google Drive that understands Bangla, Banglish and English, with Claude Code, and what he learned.</p></a></div></section>
+<section class="related" aria-labelledby="rel-h"><h2 id="rel-h">Keep reading</h2><div class="cards"><a class="card" href="/thoughts/ai-that-speaks-banglish/"><span class="mono">10 October 2026 · 3 min read</span><h3>Why I Build AI That Speaks Bangla, Banglish and English</h3><p>Most AI tools fail Bangladeshi customers because they expect perfect English. Rapar Rubel explains why he builds AI that understands Banglish, and how.</p></a><a class="card" href="/thoughts/why-i-built-paloan-personal-ai-agent/"><span class="mono">10 October 2026 · 2 min read</span><h3>Paloan: The Personal AI Agent Rapar Rubel Is Building</h3><p>Paloan is Rapar Rubel’s personal AI agent. See what Paloan does — audience research, Bangla and English drafts, launch plans, workflows — and try it live.</p></a><a class="card" href="/thoughts/building-mimai-with-claude-code/"><span class="mono">10 October 2026 · 2 min read</span><h3>How I Built MimAI, an AI File Assistant, With Claude Code</h3><p>How Rapar Rubel built MimAI, an AI file assistant for Google Drive that understands Bangla, Banglish and English, with Claude Code, and what he learned.</p></a></div></section>
 <section class="cta"><h2>Have a question about AI for your business?</h2><p>Ask my AI agent Paloan, or send me a short brief.</p>
   <a class="btn btn-primary" href="/#paloan">Ask Paloan →</a><a class="btn btn-ghost" href="/#brief">Send a brief</a></section>
 </main>

diff --git a/thoughts/_posts/why-i-built-paloan-personal-ai-agent.md b/thoughts/_posts/why-i-built-paloan-personal-ai-agent.md
@@ -1,7 +1,7 @@
 ---
-title: Paloan — Why I'm Building My Own Personal AI Agent
+title: Paloan: The Personal AI Agent Rapar Rubel Is Building
 slug: why-i-built-paloan-personal-ai-agent
-description: Rapar Rubel on Paloan, the personal AI agent he is building to research audiences, draft Bangla and English content, plan launches and run workflows.
+description: Paloan is Rapar Rubel’s personal AI agent. See what Paloan does — audience research, Bangla and English drafts, launch plans, workflows — and try it live.
 date: 2026-10-10
 tags: Paloan, personal AI agent, AI agents, productivity, AI workflow, Bangladesh
 tldr: Paloan is the personal AI agent I am building to work alongside me across my ventures.
